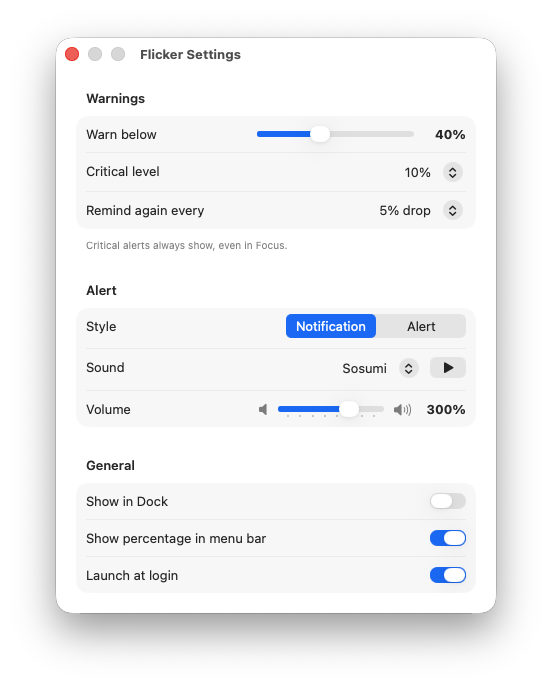
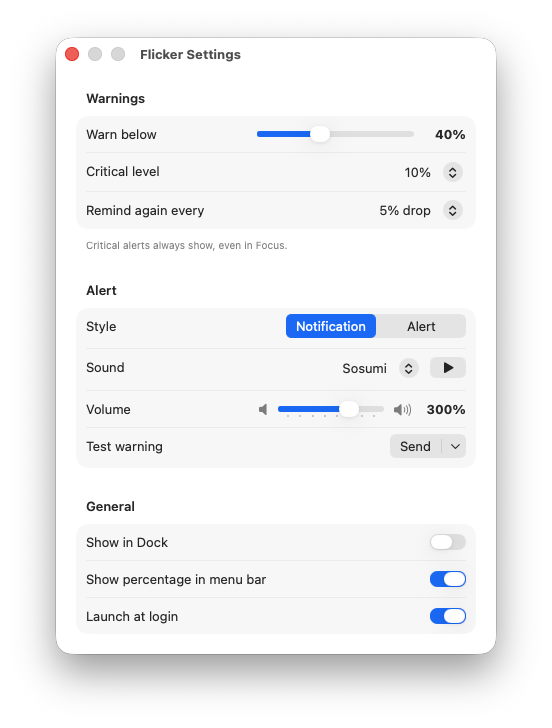
feat: move the test warning from the panel to Settings
It sits with the style and sound it tests.

diff --git a/Sources/SettingsView.swift b/Sources/SettingsView.swift
@@ -95,6 +95,18 @@ struct SettingsView: View {
                 }
                 .help("Relative to your speaker volume: 100% plays at the speaker volume")
                 .disabled(sound.isEmpty)
+
+                LabeledContent("Test warning") {
+                    Menu("Send") {
+                        Button("Low Battery") { monitor.sendTest() }
+                        Button("Critical") { monitor.sendTest(critical: true) }
+                            .disabled(critical == 0 || critical >= threshold)
+                    } primaryAction: {
+                        monitor.sendTest()
+                    }
+                    .fixedSize()
+                }
+                .help("Sends a warning with the current style and sound")
             }
 
             Section("General") {

diff --git a/Sources/PanelView.swift b/Sources/PanelView.swift
@@ -46,16 +46,6 @@ struct PanelView: View {
             HStack {
                 Button("Settings…") { showSettings() }
                 Spacer()
-                Menu("Test") {
-                    Button("Low Battery") { monitor.sendTest() }
-                    Button("Critical") { monitor.sendTest(critical: true) }
-                        .disabled(effectiveCritical == 0)
-                } primaryAction: {
-                    monitor.sendTest()
-                }
-                .fixedSize()
-                .help("Send a test warning")
-                Spacer()
                 Button("Quit") { NSApp.terminate(nil) }
             }
         }

diff --git a/AGENTS.md b/AGENTS.md
@@ -12,7 +12,7 @@ A macOS 14+ menu bar app (SwiftUI `MenuBarExtra`, no Dock icon by default via `L
 ```
 
 - The compiler runs in **Swift 6 language mode** (`-swift-version 6`) with `-parse-as-library`, once per arch (arm64, x86_64), then merged with `lipo`. Strict concurrency errors will fail the build.
-- There are no tests and no linter. Verify changes by building, installing, and using the panel's **Test** button.
+- There are no tests and no linter. Verify changes by building, installing, and using **Test warning** in Settings.
 - Run the app from `/Applications`. A second running copy (for example the one in `build/`) detects the first by bundle ID and quits itself at launch.
 
 ## Architecture
@@ -21,7 +21,7 @@ A macOS 14+ menu bar app (SwiftUI `MenuBarExtra`, no Dock icon by default via `L
 - `BatteryMonitor` (`@MainActor` singleton, `ObservableObject`): reads the internal battery through IOKit (`IOPSCopyPowerSourcesInfo`) and holds all the warning logic. Updates arrive from an `IOPSNotificationCreateRunLoopSource` callback plus a 60 s `Timer`. Both are added in **common run loop modes** so they keep firing while a modal `NSAlert` or the menu is open. The C callback gets back to the instance with `Unmanaged` and `MainActor.assumeIsolated`. The health rating, maximum capacity and cycle count (`BatteryDetails`) come from `system_profiler SPPowerDataType -json` on a detached task, read at launch and when the panel opens. Don't switch them to IOKit: its mAh figures and its health rating don't match System Settings. Missing time estimates (IOKit reports -1 for about two minutes after a power change) fall back to `AppleSmartBattery`'s `TimeRemaining` (65535 means none), re-read every 10 s until one exists. The JSON's `Good` is shown as "Normal", as System Settings does. Only the rating is colored (green Normal, red otherwise), never the capacity, so nothing can contradict macOS; light mode uses a darker green, since system green is too pale for small text there.
 - Warning logic in `evaluate()`: warn only when on battery and below threshold. `lastWarned` stores the percentage at the last warning. A reminder fires after each further `remindEvery` drop (`0` means warn once). Dropping below the critical level always warns, whatever the reminder state. While muted (`mutedUntil`, `.distantFuture` meaning until plugged in), non-critical warnings return before `lastWarned` is set, so the held-back warning fires when `unmute()` re-evaluates. Plugging in ends a mute, and the mute is in memory only. `Settings.critical` reads as 0 unless it's below the threshold, and `SettingsView` clamps it when the threshold moves. Being on the adapter, or at or above the threshold (for example after lowering it while on battery), resets `lastWarned` to nil. If no battery is found, every published field is cleared. `statusText` only says "Not charging" once that has lasted `notChargingDelay`, because IOKit reports adapter-connected-but-not-charging for a moment on every plug and unplug.
 - `Notifier`: plays the sound itself through `/usr/bin/afplay`, so volume follows the output volume and can be boosted. It then shows either an `NSAlert` (guarded by `alertShowing`, since `runModal` blocks; always used for critical warnings, since Focus can't hide it) or a `UNUserNotification` with the fixed identifier `low-battery`, so each reminder replaces the last banner. If notification permission is missing, it falls back to `osascript`.
-- `PanelView` is the menu bar panel: status, health line, a summary of the warning settings, and the mute and test menus. Menu labels render as template images that drop SwiftUI colors, so the orange muted bell is a non-template `NSImage`.
+- `PanelView` is the menu bar panel: status, health line, a summary of the warning settings, and the mute menu. Menu labels render as template images that drop SwiftUI colors, so the orange muted bell is a non-template `NSImage`.
 - `SettingsView` is the window of a SwiftUI `Settings` scene, written `SwiftUI.Settings` because our `Settings` enum shadows it. The panel's Settings… button activates the app first (a menu bar app's window otherwise opens behind others), calls `openSettings`, and closes the panel. It keeps the window's saved position when that's on the clicked menu bar's screen, and otherwise centers it there. Settings apply immediately, with no Done button, as Apple's guidelines expect.
 - `Settings`: the `UserDefaults` keys and defaults. `SettingsView` binds to the same keys with `@AppStorage`, and the monitor reads them through `Settings.*`. Add any new setting in both places. `SettingsView` calls `monitor.refresh()` when a warning setting changes (the threshold slider only on release), and the 60 s timer catches anything else, such as `defaults write`.
 

diff --git a/README.md b/README.md
@@ -4,7 +4,7 @@ A lightweight macOS menu bar app for low battery warnings at the level you choos
 
 macOS only warns when the battery is nearly empty, at a level you can't change, with a notification that's easy to miss. Flicker warns earlier, keeps warning as the battery drops, and plays a sound loud enough to notice.
 
-![Flicker in light and dark mode. Top row: the menu bar icon, normal, low battery (with an exclamation mark) and muted (crossed out). Middle row: the menu bar panel, showing 64% on battery with 3:00 remaining, battery health Normal, maximum capacity 80% and 1,054 cycles, a summary of the warning settings, and Settings, Test and Quit buttons. Bottom row: the Settings window, with Warnings (warn below 40%, critical level 10%, remind every 5% drop), Alert (notification style, Sosumi sound, 300% volume) and General (show in Dock, percentage in menu bar, launch at login) sections.](docs/images/screenshots.png)
+![Flicker in light and dark mode. Top row: the menu bar icon, normal, low battery (with an exclamation mark) and muted (crossed out). Middle row: the menu bar panel, showing 58% on battery with 2:14 remaining, battery health Normal, maximum capacity 80% and 1,054 cycles, a summary of the warning settings, and Settings and Quit buttons. Bottom row: the Settings window, with Warnings (warn below 40%, critical level 10%, remind every 5% drop), Alert (notification style, Sosumi sound, 300% volume, test warning) and General (show in Dock, percentage in menu bar, launch at login) sections.](docs/images/screenshots.png)
 
 ## Features
 
@@ -34,7 +34,7 @@ The app isn't notarized, so build it on each Mac you want to use it on. Run `./b
 
 ## Usage
 
-Click the charging station icon in the menu bar to open the panel. It shows the battery, its health and a summary of your warnings. **Test** sends a test warning, and the bell mutes warnings. **Settings…** opens the Settings window, where changes apply straight away.
+Click the charging station icon in the menu bar to open the panel. It shows the battery, its health and a summary of your warnings. The bell mutes warnings. **Settings…** opens the Settings window, where changes apply straight away and **Test warning** sends a warning with your current style and sound.
 
 | Setting | Default | Options | What it does |
 |---|---|---|---|
@@ -64,7 +64,7 @@ The menu bar icon fills with a "!" while the battery is low, and is crossed out 
 
 ## Troubleshooting
 
-**No notification appears.** Allow notifications for Flicker in System Settings → Notifications, then try the panel's **Test** button.
+**No notification appears.** Allow notifications for Flicker in System Settings → Notifications, then use **Test warning** in Settings.
 
 **Nothing appears during Focus or Do Not Disturb.** Letting notifications through Focus needs an entitlement that only a paid Apple Developer Program membership can provide. Set **Style** to **Alert** instead: alerts aren't affected by Focus. Critical warnings are always alerts.
 

diff --git a/docs/HOW-IT-WORKS.md b/docs/HOW-IT-WORKS.md
@@ -36,7 +36,7 @@ flicker/
 - **Mute holds warnings back without losing them.** While muted, a non-critical warning is skipped before the remembered percentage is updated. When the mute ends, the app re-evaluates straight away, so a warning that came due meanwhile fires then. A mute ends when its timer runs out, when you click Unmute, or when you plug in, and it's kept in memory only, so quitting the app clears it.
 - **One alert at a time.** An alert waits for you to click OK. A warning that arrives while one is open still plays its sound, but its dialog is dropped rather than shown afterwards, so dialogs never stack.
 
-Test warnings from the panel ignore all of this and always fire.
+Test warnings from Settings ignore all of this and always fire.
 
 ## Implementation notes
 
